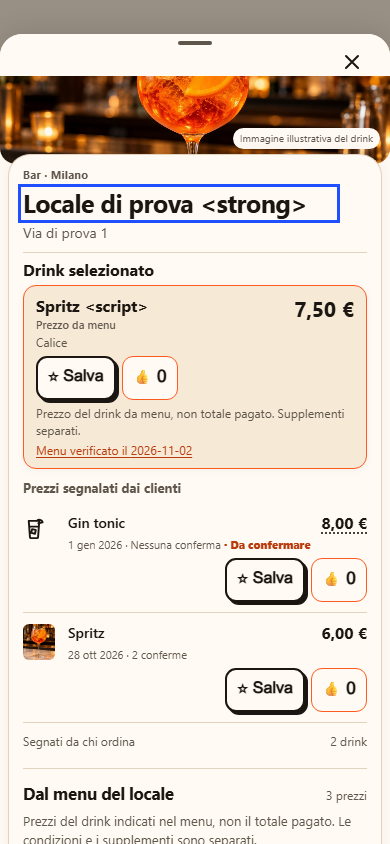
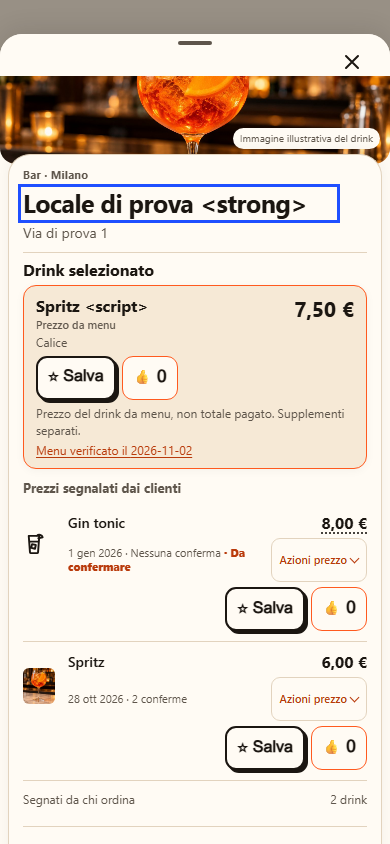
Expose price actions and avoid repeating selected menu drink

diff --git a/mobile-apps/web/components/CustomerPricesV2.tsx b/mobile-apps/web/components/CustomerPricesV2.tsx
@@ -84,6 +84,7 @@ export function CustomerPricesV2({
   venue,
   focus,
   offerFocus,
+  spotlightOfferId = null,
   mapFocus,
   mapOfferId,
   hasLegacyPrices,
@@ -92,6 +93,7 @@ export function CustomerPricesV2({
   venue: { key: string; cell: string; country: string };
   focus: DrinkFocus | null;
   offerFocus: string | null;
+  spotlightOfferId?: string | null;
   mapFocus: readonly string[];
   mapOfferId: string | null;
   hasLegacyPrices: boolean;
@@ -362,7 +364,14 @@ export function CustomerPricesV2({
       a.id.localeCompare(b.id)
     );
   });
-  const compactMenu = orderedOffers.length > 6;
+  const spotlightMenuOffer =
+    spotlightOfferId === null
+      ? undefined
+      : orderedOffers.find((offer) => offer.id === spotlightOfferId);
+  const listedOffers = spotlightMenuOffer
+    ? orderedOffers.filter((offer) => offer.id !== spotlightMenuOffer.id)
+    : orderedOffers;
+  const compactMenu = listedOffers.length > 6;
   const observations = new Map(
     rows
       .filter((row) => row.kind === "menu_offer" && row.offer_id)
@@ -608,8 +617,39 @@ export function CustomerPricesV2({
     );
   }
 
-  function offerRow(offer: MenuOffer, compact: boolean) {
+  function offerActions(offer: MenuOffer, includeSource: boolean) {
     const customer = observations.get(offer.id);
+    return (
+      <>
+        {includeSource && (
+          <a
+            href={offer.source.url}
+            target="_blank"
+            rel="noopener noreferrer"
+            class="mobile-menu-v2__source"
+          >
+            Menu verificato il {offer.source.checked_on}
+          </a>
+        )}
+        {customer && observation(customer)}
+        {loadState === "ready" && (
+          <button
+            type="button"
+            class="btn btn--secondary mobile-customer-v2__update"
+            disabled={resolvingOffer !== null || saving || moreBusy}
+            onClick={() => {
+              void beginOffer(offer);
+            }}
+          >
+            Prezzo diverso? Aggiorna
+          </button>
+        )}
+        {editor?.kind === "menu_offer" && editor.offer.id === offer.id && priceForm}
+      </>
+    );
+  }
+
+  function offerRow(offer: MenuOffer, compact: boolean) {
     const exactSaved = offerFocus === offer.id;
     const offerSaved =
       mobileOfferIdPattern.test(offer.id) &&
@@ -674,32 +714,7 @@ export function CustomerPricesV2({
         )}
       </div>
     );
-    const actions = (
-      <>
-        <a
-          href={offer.source.url}
-          target="_blank"
-          rel="noopener noreferrer"
-          class="mobile-menu-v2__source"
-        >
-          Menu verificato il {offer.source.checked_on}
-        </a>
-        {customer && observation(customer)}
-        {loadState === "ready" && (
-          <button
-            type="button"
-            class="btn btn--secondary mobile-customer-v2__update"
-            disabled={resolvingOffer !== null || saving || moreBusy}
-            onClick={() => {
-              void beginOffer(offer);
-            }}
-          >
-            Prezzo diverso? Aggiorna
-          </button>
-        )}
-        {editor?.kind === "menu_offer" && editor.offer.id === offer.id && priceForm}
-      </>
-    );
+    const actions = offerActions(offer, true);
     return (
       <li
         key={offer.id}
@@ -740,23 +755,40 @@ export function CustomerPricesV2({
 
   return (
     <>
-      {offers.length > 0 && (
+      {spotlightMenuOffer && (
+        <details
+          class="mobile-menu-v2__more-offers mobile-menu-v2__selected-details"
+          data-testid="selected-menu-actions"
+        >
+          <summary>
+            {english ? "Updates for the selected drink" : "Aggiorna il drink selezionato"}
+            <span>{english ? "Details" : "Dettagli"}</span>
+          </summary>
+          <div class="mobile-menu-v2__offer-actions">{offerActions(spotlightMenuOffer, false)}</div>
+        </details>
+      )}
+      {listedOffers.length > 0 && (
         <>
-          <ul class="mobile-menu-v2__offers">
-            {(compactMenu ? orderedOffers.slice(0, 1) : orderedOffers).map((offer) =>
-              offerRow(offer, false),
-            )}
-          </ul>
-          {compactMenu && (
+          {!spotlightMenuOffer && (
+            <ul class="mobile-menu-v2__offers">
+              {(compactMenu ? listedOffers.slice(0, 1) : listedOffers).map((offer) =>
+                offerRow(offer, false),
+              )}
+            </ul>
+          )}
+          {(compactMenu || spotlightMenuOffer) && (
             <details class="mobile-menu-v2__more-offers">
               <summary>
                 {english ? "Other menu prices" : "Altri prezzi dal menu"}
                 <span>
-                  {String(orderedOffers.length - 1)} {english ? "drinks" : "drink"}
+                  {String(spotlightMenuOffer ? listedOffers.length : listedOffers.length - 1)}{" "}
+                  {english ? "drinks" : "drink"}
                 </span>
               </summary>
               <ul class="mobile-menu-v2__offers mobile-menu-v2__offers--compact">
-                {orderedOffers.slice(1).map((offer) => offerRow(offer, true))}
+                {(spotlightMenuOffer ? listedOffers : listedOffers.slice(1)).map((offer) =>
+                  offerRow(offer, true),
+                )}
               </ul>
             </details>
           )}

diff --git a/mobile-apps/web/components/sheets.css b/mobile-apps/web/components/sheets.css
@@ -517,25 +517,40 @@
   grid-row: 1 / 3;
 }
 .scontrino.mobile-venue .mobile-price:not(.mobile-price--featured) .price__meta {
-  /* Source links stay above the name/price row's action target. */
-  position: relative;
-  z-index: 1;
+  grid-column: 2;
+  grid-row: 2;
   font-size: 11px;
   line-height: 1.35;
 }
 .scontrino.mobile-venue .mobile-price:not(.mobile-price--featured) .mobile-price__toggle {
-  position: absolute;
-  inset: 0 0 auto;
-  width: 100%;
-  height: 56px;
-  min-height: 56px;
-  margin: 0;
-  padding: 0;
-  border: 0;
-  border-radius: 8px;
-  background: transparent;
-  font-size: 0;
+  position: relative;
+  z-index: 1;
+  grid-column: 3;
+  grid-row: 2;
+  justify-self: end;
+  align-self: center;
+  width: auto;
+  min-width: 86px;
+  min-height: 44px;
+  padding: 5px 8px;
+  border: 1px solid var(--line-soft, #e2d3be);
+  border-radius: 9px;
+  background: var(--surface, #fffbf4);
+  font-size: 11px;
+  text-align: center;
   cursor: pointer;
+}
+.scontrino.mobile-venue .mobile-price__chevron {
+  display: inline-block;
+  width: 7px;
+  height: 7px;
+  margin-left: 4px;
+  border-right: 1.5px solid currentColor;
+  border-bottom: 1.5px solid currentColor;
+  transform: translateY(-2px) rotate(45deg);
+}
+.scontrino.mobile-venue .mobile-price__toggle[aria-expanded="true"] .mobile-price__chevron {
+  transform: translateY(2px) rotate(225deg);
 }
 .scontrino.mobile-venue .mobile-price__toggle:focus-visible {
   outline: 2px solid var(--ink, #1b1611);
@@ -1042,10 +1057,6 @@
 }
 .scontrino.mobile-venue .mobile-price:not(.mobile-price--featured) .price__actions {
   grid-row: 4;
-}
-.scontrino.mobile-venue .mobile-price:not(.mobile-price--featured) .mobile-price__toggle {
-  height: 48px;
-  min-height: 48px;
 }
 .mobile-menu-v2__offer {
   padding: 10px 12px;

diff --git a/mobile-apps/web/components/BarSheet.tsx b/mobile-apps/web/components/BarSheet.tsx
@@ -212,6 +212,11 @@ function PriceItem({
         hidden={featured}
         aria-expanded={expanded}
         aria-controls={actionsId}
+        aria-label={
+          currentLang() === "en"
+            ? `${expanded ? "Hide" : "Show"} price actions for ${name}: ${inReview ? "confirm or report" : "confirm, change or report"}`
+            : `${expanded ? "Nascondi" : "Mostra"} le azioni per ${name}: ${inReview ? "conferma o segnala" : "conferma, modifica o segnala"} il prezzo`
+        }
         onClick={() => {
           setExpanded(!expanded);
         }}
@@ -221,9 +226,9 @@ function PriceItem({
             ? "Hide actions"
             : "Price actions"
           : expanded
-            ? "Nascondi azioni"
-            : "Azioni sul prezzo"}
-        <span class="sr-only"> · {name}</span>
+            ? "Chiudi azioni"
+            : "Azioni prezzo"}
+        <span class="mobile-price__chevron" aria-hidden="true" />
       </button>
       <span ref={controls} id={actionsId} class="price__actions" hidden={!showActions}>
         <button
@@ -609,6 +614,7 @@ export function BarSheet({ venueKey, cell, actions, focus, tier, onVenue, onClos
           venue={{ key: venueKey, cell, country: "IT" }}
           focus={savedFocus}
           offerFocus={savedOfferFocus}
+          spotlightOfferId={featuredOffer?.id ?? null}
           mapFocus={focus}
           mapOfferId={mapSample?.id ?? null}
           hasLegacyPrices={active.length > 0}

diff --git a/mobile-apps/web/docs/venue-layout-evidence-20261111/README.md b/mobile-apps/web/docs/venue-layout-evidence-20261111/README.md
@@ -3,7 +3,9 @@
 These 390 px screenshots use the local `components.test.mjs` fixture, not a real venue or a public contribution. The fixture deliberately includes markup characters in the venue and drink names to check escaping.
 
 - `before.png`: selected owner-menu Spritz also expands an unrelated customer Gin tonic into a second large card with its three actions always visible.
-- `after.png`: the owner-menu drink is the only featured card; customer prices stay in a compact list. Price, serving, menu source, date, and fee caveat remain visible.
+- `after.png`: the owner-menu drink is the only featured card; customer prices stay in a compact list with visible “Azioni prezzo” controls. Price, serving, menu source, date, and fee caveat remain visible.
 - `after-native.png`: the same updated sheet after the native Save capabilities are enabled in the fixture. Each visible drink has its own private Save and public thumbs-up action.
+- `after-selected-actions.png`: the selected owner drink is absent from the lower menu list; its linked customer report and update action remain available without duplicating its menu price.
+- `after-footer.png`: the other menu prices, documented supplement, directions, reporting, and legal links remain reachable after scrolling.
 
 The focused browser test captures current screenshots when `DOVEBEVO_CAPTURE_VENUE=after` is set. The baseline screenshot was captured from `986e9bab00d8b29744302d4f31dc13cd5d2eca7a` before the layout change. These screenshots are visual review evidence; they do not replace physical-device testing or a store release.
